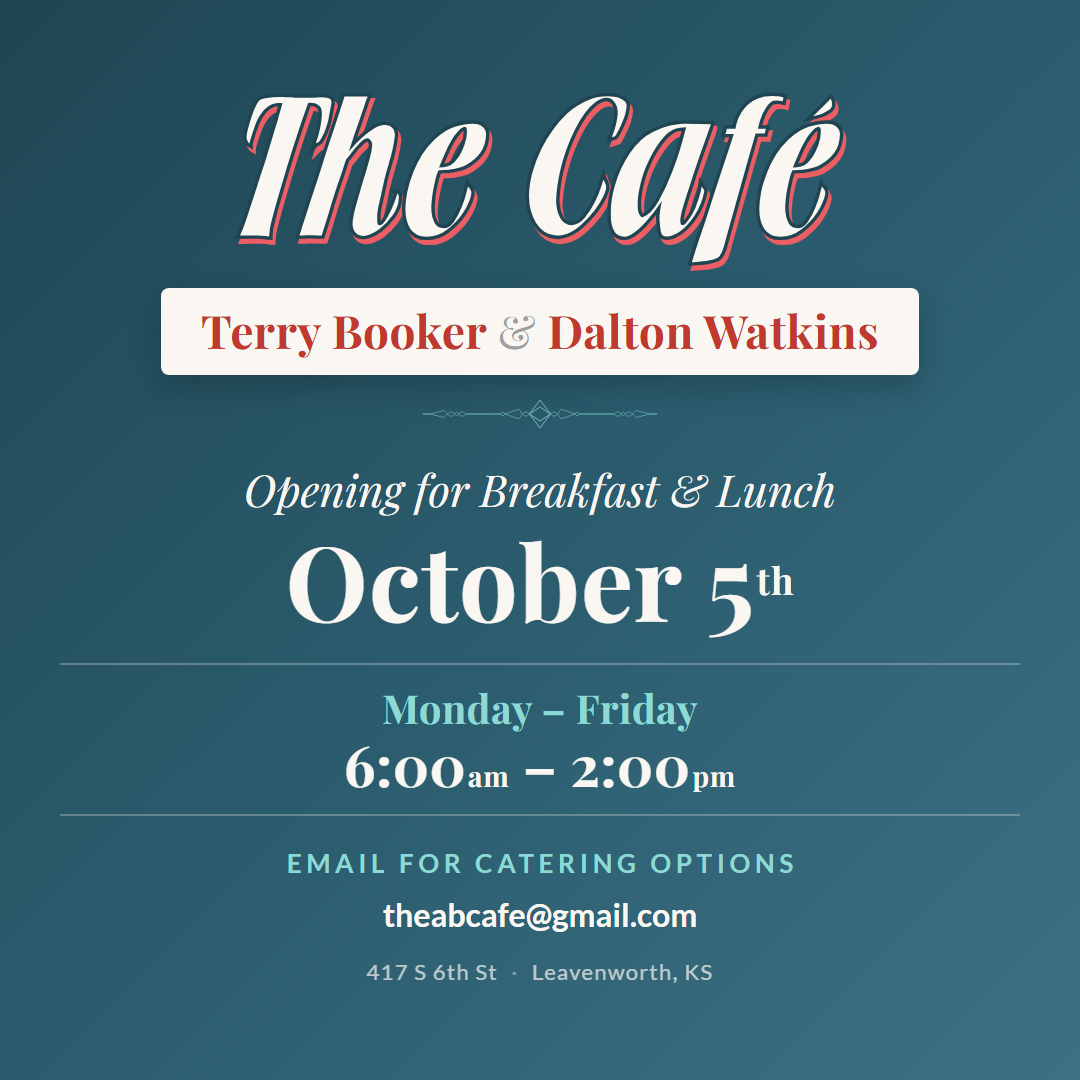
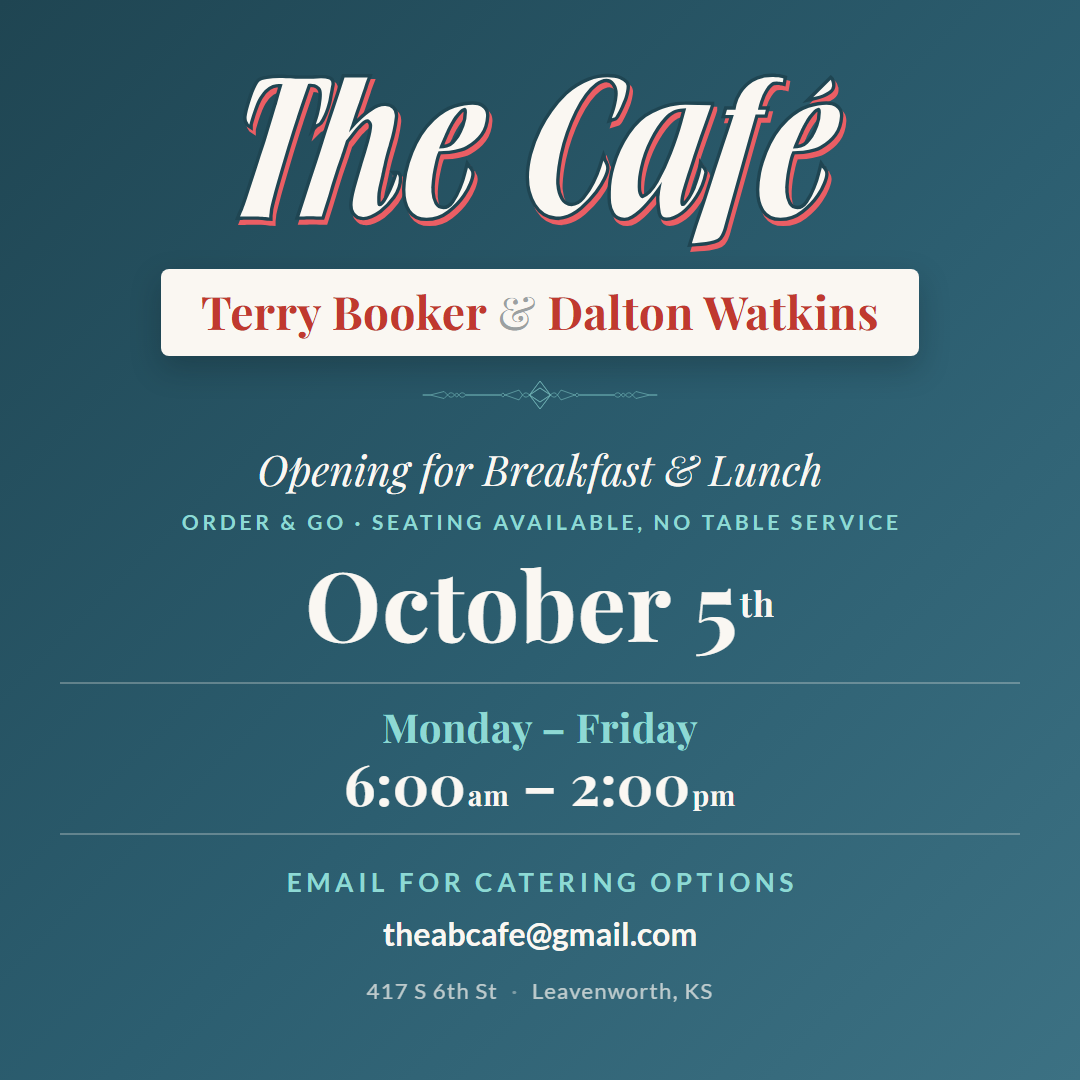
Order and go, and the client's own caption
Terry's copy landed and it changes facts the artboard was asserting. The
picture now says "Order & Go · Seating available, no table service" under
the kicker — small, and on the picture rather than only in the caption,
because the picture is what gets shared without the caption attached.
Somebody who walks in expecting to be waited on has already had a worse
morning than the post promised.

The caption front matter is now the client's words, not our draft. Two
mechanical fixes: "a order-and-go" to "an order-and-go", and "along side"
to "alongside" in both places. Voice untouched — this has to sound like
Terry and Dalton. It is dated: the first line greets Labor Day weekend,
and there is a note saying so.

Facts list picks up what the copy establishes: order and go, deli style,
no fried foods, limited beverages, menu still moving through September;
went private in 2015 alongside the Council on Aging; the Lansing Lions,
Rotary and Community Center events are named, since those groups are the
ones most likely to share it.

Two of those contradict what we already shipped, so they are flagged in
the list rather than quietly fixed:
- "no fried foods" against a tri-fold that lists fried potatoes and chips
- the deli-style decision against the whole lunch half of menu.json

Claude-Session: https://claude.ai/code/session_01SHymk3pqzFx1CfKKhkBpeH

Changed region(s): [[0.0611, 0.4278, 0.9472, 0.9472], [0.1528, 0.0611, 0.8556, 0.3972]]

diff --git a/src/assets/css/fb-opening-day.css b/src/assets/css/fb-opening-day.css
@@ -93,13 +93,25 @@
 .post-announce { margin-top: 30px; }
 
 .post-kicker {
-    font-size: 44px;
+    font-size: 42px;
     color: var(--cream);
 }
 
+/* Small, and deliberately so. It is a caveat, not an announcement — but it
+   has to be ON the picture, because the picture is what gets shared without
+   the caption attached. */
+.post-service {
+    font-size: 21px;
+    color: var(--mint);
+    margin-top: 14px;
+    /* .p-label tracks 0.18em, added to the right of the last letter too, so
+       a centred line sits half a space left of true centre. */
+    text-indent: 0.18em;
+}
+
 .post-date {
-    font-size: 104px;
-    margin-top: 10px;
+    font-size: 96px;
+    margin-top: 14px;
 }
 
 /* Playfair's default superscript sits too high and too large against a
